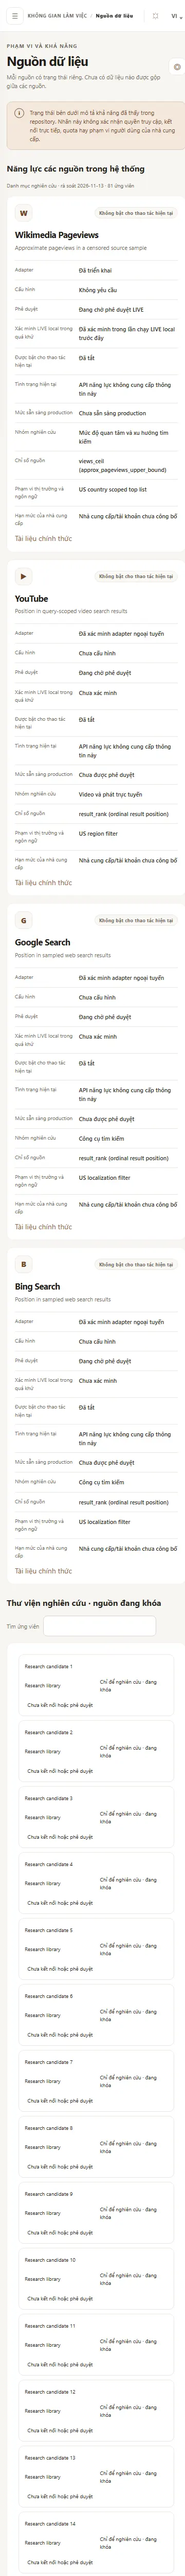
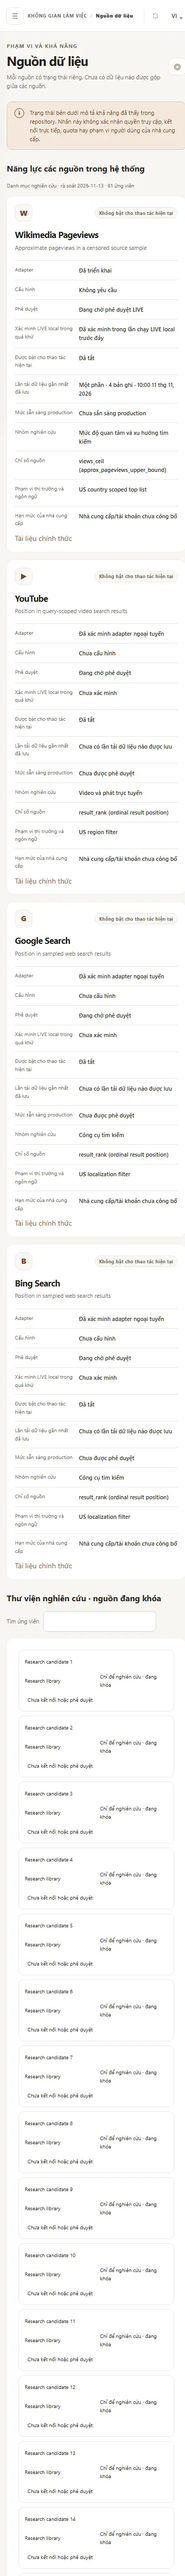
feat(sources): show latest saved fetch evidence

diff --git a/Frontend/public/modules/capabilities.js b/Frontend/public/modules/capabilities.js
@@ -6,7 +6,7 @@ const STATUS_FIELDS = [
   ['sources.approval', 'approval_status'],
   ['sources.local-verification', 'local_live_verification_status'],
   ['sources.current-operation', 'enabled_for_current_operation'],
-  ['sources.current-health', null],
+  ['sources.latest-fetch', null],
   ['sources.production-readiness', 'production_readiness'],
 ];
 
@@ -39,6 +39,21 @@ function localizedStatus(value, translate) {
   return translate('source.status.' + value.toLowerCase());
 }
 
+function savedFetchSummary(activity, translate) {
+  if (!activity) return translate('source.fetch-no-saved-data');
+  const status = ['SUCCESS', 'PARTIAL', 'FAILED'].includes(activity.status)
+    ? translate(`source.fetch.${activity.status.toLowerCase()}`)
+    : translate('source.status-unknown');
+  const count = Number.isInteger(activity.record_count) && activity.record_count >= 0
+    ? `${new Intl.NumberFormat(document.documentElement.lang || 'vi').format(activity.record_count)} ${translate('source.fetch-records')}`
+    : translate('source.fetch-count-unavailable');
+  const fetched = activity.fetched_at ? new Date(activity.fetched_at) : null;
+  const date = fetched && !Number.isNaN(fetched.getTime())
+    ? new Intl.DateTimeFormat(document.documentElement.lang || 'vi', {dateStyle:'medium',timeStyle:'short'}).format(fetched)
+    : translate('source.fetch-time-unavailable');
+  return `${status} · ${count} · ${date}`;
+}
+
 export function renderSourceCapabilities(capabilities, translate) {
   const descriptors = new Map((Array.isArray(capabilities?.sources) ? capabilities.sources : []).map(source => [source.source_id, source]));
   const grid = document.querySelector('#source-registry-list');
@@ -55,7 +70,7 @@ export function renderSourceCapabilities(capabilities, translate) {
       const list=document.createElement('dl'); list.className='detail-list';
       for (const [labelKey,field] of STATUS_FIELDS) {
         const label=document.createElement('dt'); label.textContent=translate(labelKey);
-        const value=document.createElement('dd'); value.textContent=field===null ? translate('source.health-unreported') : localizedStatus(descriptor[field],translate);
+        const value=document.createElement('dd'); value.textContent=field===null ? savedFetchSummary(descriptor.last_saved_fetch,translate) : localizedStatus(descriptor[field],translate);
         const row=document.createElement('div'); row.append(label,value); list.append(row);
       }
       const categoryLabel=translate(`sources.category.${descriptor.category}`);

diff --git a/Frontend/public/modules/i18n/vi.js b/Frontend/public/modules/i18n/vi.js
@@ -160,9 +160,15 @@ export const vi = {
   'sources.candidate-not-integrated': 'Chưa kết nối hoặc phê duyệt',
   'sources.no-candidates': 'Không có nguồn nào khớp tìm kiếm.',
   'sources.library-error': 'Không tải được danh mục nghiên cứu.',
-  'sources.current-health': 'Tình trạng hiện tại',
+  'sources.latest-fetch': 'Lần tải dữ liệu gần nhất đã lưu',
   'sources.production-readiness': 'Mức sẵn sàng production',
-  'source.health-unreported': 'API năng lực không cung cấp thông tin này',
+  'source.fetch-no-saved-data': 'Chưa có lần tải dữ liệu nào được lưu',
+  'source.fetch-count-unavailable': 'chưa có số bản ghi',
+  'source.fetch-time-unavailable': 'chưa có thời gian',
+  'source.fetch-records': 'bản ghi',
+  'source.fetch.success': 'Thành công',
+  'source.fetch.partial': 'Một phần',
+  'source.fetch.failed': 'Thất bại',
   'source.status-unknown': 'Chưa rõ trạng thái',
   'source.enabled': 'Được bật cho thao tác hiện tại',
   'source.enabled-local-verified': 'Được bật · có ghi nhận xác minh local',

diff --git a/Frontend/public/modules/i18n/en.js b/Frontend/public/modules/i18n/en.js
@@ -160,9 +160,15 @@ export const en = {
   'sources.candidate-not-integrated': 'Not connected or approved',
   'sources.no-candidates': 'No candidates match this search.',
   'sources.library-error': 'Research inventory unavailable.',
-  'sources.current-health': 'Current health',
+  'sources.latest-fetch': 'Latest saved data fetch',
   'sources.production-readiness': 'Production readiness',
-  'source.health-unreported': 'Not reported by the capability API',
+  'source.fetch-no-saved-data': 'No saved data fetch yet',
+  'source.fetch-count-unavailable': 'record count unavailable',
+  'source.fetch-time-unavailable': 'time unavailable',
+  'source.fetch-records': 'records',
+  'source.fetch.success': 'Succeeded',
+  'source.fetch.partial': 'Partial',
+  'source.fetch.failed': 'Failed',
   'source.status-unknown': 'Status unknown',
   'source.enabled': 'Enabled for current operation',
   'source.enabled-local-verified': 'Enabled · local verification recorded',

diff --git a/Backend/tests/browser_d2_visual_offline.py b/Backend/tests/browser_d2_visual_offline.py
@@ -19,7 +19,7 @@ window.fetch=(path,options={})=>{
   const value=String(path).split('?')[0];
   if(value==='/api/health')return Promise.resolve(new Response(JSON.stringify({status:'ok'}),{status:200}));
   if(value==='/api/v1/capabilities')return Promise.resolve(new Response(JSON.stringify({contract_version:'1.0',environment_mode:'test',read_only:true,authentication_required:false,public_fetch_enabled:false,fetch_enabled:false,fetch_block_reason:'FEATURE_DISABLED',data_mode:'SYNTHETIC',sources:[
-    {source_id:'wikimedia_pageviews_top_per_country',display_name:'Wikimedia Pageviews',icon:'W',category:'trends_search_interest',adapter_status:'IMPLEMENTED',approval_status:'PENDING_LIVE_APPROVAL',configuration_status:'NOT_REQUIRED',local_live_verification_status:'LOCAL_LIVE_VERIFIED',production_readiness:'NOT_PRODUCTION_READY',enabled_for_current_operation:false,metric:{name:'views_ceil',unit:'approx_pageviews_upper_bound',meaning:'Approximate pageviews in a censored source sample'},market_scope:'US country scoped top list',documentation_url:'https://doc.wikimedia.org/generated-data-platform/aqs/'},
+    {source_id:'wikimedia_pageviews_top_per_country',display_name:'Wikimedia Pageviews',icon:'W',category:'trends_search_interest',adapter_status:'IMPLEMENTED',approval_status:'PENDING_LIVE_APPROVAL',configuration_status:'NOT_REQUIRED',local_live_verification_status:'LOCAL_LIVE_VERIFIED',production_readiness:'NOT_PRODUCTION_READY',enabled_for_current_operation:false,last_saved_fetch:{status:'PARTIAL',data_mode:'SYNTHETIC',record_count:4,fetched_at:'2026-11-11T03:00:00Z',observation_start:'2026-11-10',observation_end:'2026-11-10'},metric:{name:'views_ceil',unit:'approx_pageviews_upper_bound',meaning:'Approximate pageviews in a censored source sample'},market_scope:'US country scoped top list',documentation_url:'https://doc.wikimedia.org/generated-data-platform/aqs/'},
     {source_id:'youtube_video_search',display_name:'YouTube',icon:'▶',category:'video_streaming',adapter_status:'IMPLEMENTED_OFFLINE_VERIFIED',approval_status:'PENDING_APPROVAL',configuration_status:'NOT_CONFIGURED',local_live_verification_status:'NOT_VERIFIED',production_readiness:'NOT_APPROVED',enabled_for_current_operation:false,metric:{name:'result_rank',unit:'ordinal result position',meaning:'Position in query-scoped video search results'},market_scope:'US region filter',documentation_url:'https://developers.google.com/youtube/v3/docs/search/list'},
     {source_id:'google_web_serp',display_name:'Google Search',icon:'G',category:'search_engines',adapter_status:'IMPLEMENTED_OFFLINE_VERIFIED',approval_status:'PENDING_APPROVAL',configuration_status:'NOT_CONFIGURED',local_live_verification_status:'NOT_VERIFIED',production_readiness:'NOT_APPROVED',enabled_for_current_operation:false,metric:{name:'result_rank',unit:'ordinal result position',meaning:'Position in sampled web search results'},market_scope:'US localization filter',documentation_url:'https://serpapi.com/search-api'},
     {source_id:'bing_web_serp',display_name:'Bing Search',icon:'B',category:'search_engines',adapter_status:'IMPLEMENTED_OFFLINE_VERIFIED',approval_status:'PENDING_APPROVAL',configuration_status:'NOT_CONFIGURED',local_live_verification_status:'NOT_VERIFIED',production_readiness:'NOT_APPROVED',enabled_for_current_operation:false,metric:{name:'result_rank',unit:'ordinal result position',meaning:'Position in sampled web search results'},market_scope:'US localization filter',documentation_url:'https://serpapi.com/search-api'}

diff --git a/Backend/app/api/capabilities.py b/Backend/app/api/capabilities.py
@@ -1,6 +1,7 @@
 """Public, non-secret view of runtime and source capabilities."""
 
 import json
+import sqlite3
 from pathlib import Path
 
 from fastapi import APIRouter, HTTPException, Request, Response
@@ -11,6 +12,48 @@ from app.sources.query_plan import get_query_plan
 
 router = APIRouter()
 _RESEARCH_CATALOG = Path(__file__).resolve().parents[1] / "sources" / "research_catalog.json"
+
+
+def _saved_source_activity(request):
+    """Return the latest persisted Fetch evidence per source, never live health."""
+    service = getattr(request.app.state, "collection_service", None)
+    if service is None:
+        return {}
+    try:
+        with service.store.connect() as db:
+            rows = db.execute(
+                "SELECT status,data_mode,source_manifest,fetched_at,observation_start,observation_end "
+                "FROM dataset_snapshots ORDER BY created_at DESC LIMIT 100"
+            ).fetchall()
+    except (OSError, sqlite3.Error):
+        return {}
+
+    latest = {}
+    for row in rows:
+        try:
+            manifest = json.loads(row["source_manifest"])
+        except (TypeError, ValueError, KeyError):
+            continue
+        if not isinstance(manifest, list):
+            continue
+        for source in manifest:
+            if not isinstance(source, dict):
+                continue
+            source_id = source.get("source_id")
+            if not isinstance(source_id, str) or source_id in latest:
+                continue
+            status = source.get("status")
+            status = status if status in {"SUCCESS", "PARTIAL", "FAILED"} else "UNKNOWN"
+            record_count = source.get("record_count")
+            latest[source_id] = {
+                "status": status,
+                "data_mode": row["data_mode"],
+                "record_count": record_count if type(record_count) is int and record_count >= 0 else None,
+                "fetched_at": row["fetched_at"],
+                "observation_start": row["observation_start"],
+                "observation_end": row["observation_end"],
+            }
+    return latest
 
 
 @router.get("/sources/library")
@@ -54,6 +97,7 @@ async def capabilities(request: Request, response: Response):
                     enabled = False
                     block_reason = "ADMISSION_STATE_UNAVAILABLE"
     plan = get_query_plan(settings.query_plan_id, settings.query_plan_version)
+    saved_activity = _saved_source_activity(request)
     response.headers["Cache-Control"] = "no-store"
     return {
         "contract_version": "1.0",
@@ -142,6 +186,7 @@ async def capabilities(request: Request, response: Response):
                 "enabled_for_current_operation": (
                     enabled and item.source_id in request.app.state.public_fetch_source_ids
                 ),
+                "last_saved_fetch": saved_activity.get(item.source_id),
                 "disabled_reason": None
                 if enabled and item.source_id in request.app.state.public_fetch_source_ids
                 else (block_reason or "SOURCE_NOT_ALLOWED"),

diff --git a/Backend/tests/test_source_catalog.py b/Backend/tests/test_source_catalog.py
@@ -1,9 +1,16 @@
 """Source catalog exposes capabilities without inventing future adapters."""
 
+import json
+import sqlite3
+import tempfile
 import unittest
+from contextlib import contextmanager
+from pathlib import Path
+from types import SimpleNamespace
 from unittest.mock import patch
 
 from app import composition
+from app.api.capabilities import _saved_source_activity
 from app.settings import Settings
 from app.sources.catalog import (
     BING_SOURCE_ID,
@@ -16,6 +23,51 @@ from app.sources.catalog import (
 
 
 class SourceCatalogTests(unittest.TestCase):
+    def test_capabilities_project_latest_saved_source_fetch_without_diagnostics(self):
+        with tempfile.TemporaryDirectory() as directory:
+            path = Path(directory) / "snapshots.sqlite"
+            db = sqlite3.connect(path)
+            db.row_factory = sqlite3.Row
+            db.execute("""CREATE TABLE dataset_snapshots(
+                status TEXT,data_mode TEXT,source_manifest TEXT,fetched_at TEXT,
+                observation_start TEXT,observation_end TEXT,created_at TEXT)""")
+            db.execute("""INSERT INTO dataset_snapshots VALUES(?,?,?,?,?,?,?)""", (
+                "PARTIAL", "SYNTHETIC", json.dumps([{
+                    "source_id": WIKIMEDIA_SOURCE_ID, "status": "PARTIAL",
+                    "record_count": 7, "error_code": "PRIVATE_PROVIDER_DETAIL",
+                }]), "2026-11-14T01:00:00Z", "2026-11-12", "2026-11-13", "2",
+            ))
+            db.execute("""INSERT INTO dataset_snapshots VALUES(?,?,?,?,?,?,?)""", (
+                "COMPLETED", "SYNTHETIC", json.dumps([{
+                    "source_id": WIKIMEDIA_SOURCE_ID, "status": "SUCCESS",
+                    "record_count": 3,
+                }]), "2026-11-13T01:00:00Z", "2026-11-11", "2026-11-11", "1",
+            ))
+            db.commit()
+            db.close()
+
+            class Store:
+                @contextmanager
+                def connect(self):
+                    db = sqlite3.connect(path)
+                    db.row_factory = sqlite3.Row
+                    try:
+                        yield db
+                    finally:
+                        db.close()
+
+            request = SimpleNamespace(app=SimpleNamespace(state=SimpleNamespace(
+                collection_service=SimpleNamespace(store=Store())
+            )))
+            activity = _saved_source_activity(request)[WIKIMEDIA_SOURCE_ID]
+
+        self.assertEqual(activity, {
+            "status": "PARTIAL", "data_mode": "SYNTHETIC", "record_count": 7,
+            "fetched_at": "2026-11-14T01:00:00Z", "observation_start": "2026-11-12",
+            "observation_end": "2026-11-13",
+        })
+        self.assertNotIn("PRIVATE_PROVIDER_DETAIL", json.dumps(activity))
+
     def test_four_capabilities_have_central_endpoint_and_readiness_metadata(self):
         expected = {
             WIKIMEDIA_SOURCE_ID: ("wikimedia_aqs", "IMPLEMENTED", True),

diff --git a/Backend/tests/browser_workspace_offline.py b/Backend/tests/browser_workspace_offline.py
@@ -31,7 +31,7 @@ window.fetch=(path,opts={})=>{
     data_mode:'LIVE',local_live_demo:true,environment_mode:'local',read_only:false,
     fetch_enabled:false,public_fetch_enabled:false,authentication_required:false,
     sources:[
-      {source_id:'wikimedia_pageviews_top_per_country',adapter_status:'IMPLEMENTED',approval_status:'PENDING_LIVE_APPROVAL',configuration_status:'NOT_REQUIRED',local_live_verification_status:'LOCAL_LIVE_VERIFIED',production_readiness:'NOT_PRODUCTION_READY',enabled_for_current_operation:false},
+      {source_id:'wikimedia_pageviews_top_per_country',adapter_status:'IMPLEMENTED',approval_status:'PENDING_LIVE_APPROVAL',configuration_status:'NOT_REQUIRED',local_live_verification_status:'LOCAL_LIVE_VERIFIED',production_readiness:'NOT_PRODUCTION_READY',enabled_for_current_operation:false,last_saved_fetch:{status:'PARTIAL',record_count:7,fetched_at:'2026-11-14T01:00:00Z',data_mode:'SYNTHETIC'}},
       {source_id:'youtube_video_search',adapter_status:'IMPLEMENTED_OFFLINE_VERIFIED',approval_status:'PENDING_APPROVAL',configuration_status:'NOT_CONFIGURED',local_live_verification_status:'NOT_VERIFIED',production_readiness:'NOT_APPROVED',enabled_for_current_operation:false},
       {source_id:'google_web_serp',adapter_status:'IMPLEMENTED_OFFLINE_VERIFIED',approval_status:'PENDING_APPROVAL',configuration_status:'NOT_CONFIGURED',local_live_verification_status:'NOT_VERIFIED',production_readiness:'NOT_APPROVED',enabled_for_current_operation:false},
       {source_id:'bing_web_serp',adapter_status:'IMPLEMENTED_OFFLINE_VERIFIED',approval_status:'PENDING_APPROVAL',configuration_status:'NOT_CONFIGURED',local_live_verification_status:'NOT_VERIFIED',production_readiness:'NOT_APPROVED',enabled_for_current_operation:false}
@@ -128,6 +128,15 @@ CHECK = r"""<script>
       check(!document.querySelector('[data-view=\"'+link.dataset.nav+'\"]')?.hidden,'view '+link.dataset.nav);
       check(link.getAttribute('aria-current')==='page','aria current '+link.dataset.nav);
       check(document.documentElement.scrollWidth<=innerWidth+1,'horizontal overflow '+link.dataset.nav);
+    }
+    if(innerWidth<=900){
+      const menuButton=document.querySelector('#menu-toggle');
+      menuButton.click();
+      check(document.querySelector('#app-shell').classList.contains('menu-open'),'mobile navigation opens');
+      check(document.querySelector('#workspace-nav-panel').contains(document.activeElement),'mobile navigation receives focus');
+      document.dispatchEvent(new KeyboardEvent('keydown',{key:'Escape',bubbles:true}));
+      check(!document.querySelector('#app-shell').classList.contains('menu-open'),'Escape closes mobile navigation');
+      check(document.activeElement===menuButton,'mobile navigation restores focus to its trigger');
     }
     const {applyLocale}=await import(I18N_MODULE_URI);
     await go('collections');await wait(80);

diff --git a/Documents/Reports/OVERNIGHT_G2_G7_FINAL_REPORT.md b/Documents/Reports/OVERNIGHT_G2_G7_FINAL_REPORT.md
@@ -17,7 +17,7 @@
 | Phase | State | Implemented and evidence | Remaining acceptance gap |
 |---|---|---|---|
 | G2 — contextual classification and Collection quality | **PASS for the local replay scope** | Versioned `contextual-classifier-v1.2` policy is consumed by the local classifier; taxonomy is `topics-v1.4`; bounded official Wikipedia/Wikidata context lookups were used for uncached/stale saved keyword context; the 154-row reconciliation preserved all observations and manual decisions. | The store has only 154 eligible records, so this is acceptance for this actual local dataset, not a claim about future records. Six records remain without a Collection by design. |
-| G3 — Source Center | **PASS for registry and research inventory UI** | Runtime source descriptions are backend-driven. The UI separates integration/configuration/approval/local-live/production status and states quota as unknown when it is not measured. The 81-entry catalog is explicitly research-only and locked, separate from runtime adapters. | Only the existing Wikimedia Pageviews source has persisted observations. Other candidates are not integrated, approved, or quota-verified. Inventory research was last audited 2026-11-11 and needs revalidation before integration. |
+| G3 — Source Center | **PASS for local registry and saved-operation evidence** | Runtime source descriptions are backend-driven. Source cards now show the latest saved Fetch status, per-source record count and recorded timestamp from SQLite; this is saved history, not provider-online health. The UI separates integration/configuration/approval/local-live/production status and states quota as unknown when it is not measured. The 81-entry catalog is explicitly research-only and locked, separate from runtime adapters. | Only the existing Wikimedia Pageviews source has persisted observations. Other candidates are not integrated, approved, or quota-verified. Inventory research was last audited 2026-11-11 and needs revalidation before integration. |
 | G4 - Dashboard and analytics | **PARTIAL** | Overview shows a persisted comparable-cohort Top 5 chart. Analysis charts saved keywords by source, algorithm-result rows by outcome, Fetch run status by source, per-source/per-day observed versus unavailable counts, and a source/date coverage heatmap; accessible source-level tables remain alongside them. Algorithm effectiveness is explicitly `NOT_YET_EVALUATED`, with a localized explanation rather than a fabricated score. | Counts are record/run counts, not demand, audience or accuracy. One-source coverage cannot establish cross-source overlap; filters remain disabled until compatible windows and measures exist. |
 | G5 — Run History | **PARTIAL** | Search/status/mode filtering, pagination and details read persistent SQLite `fetch_jobs`, stored snapshots and the AnalysisStorage run ledger. A bounded registry contract returns up to 100 newest manual runs; a truncated-history flag is returned at the cap. The UI shows recorded duration or “not recorded”, localizes run type/source/status/mode and known partial/failure explanations, and adds column labels to mobile rows. Offline fake and Firestore-stub contracts plus API tests pass. | Firestore emulator integration remains unverified in this environment; older-than-100 manual runs are not included in the merged search window. |
 | G6 — algorithms and Data Quality | **PASS for the evaluated local snapshot; cross-product review partial** | API reports the actual 12-method registry. Persisted ledger has 154 observations and 1,848 keyword/algorithm results (154 × 12); incompatible methods are skipped with reasons. No effectiveness winner is selected without comparable labeled history. UI localizes names, statuses and reasons and exposes result/evidence detail. | The current single censored Wikimedia snapshot supports descriptive within-snapshot ranking only. It cannot validate growth, persistence, change points or algorithm effectiveness. Full keyboard/accessibility review of every detail state remains outstanding. |
@@ -69,7 +69,7 @@ The taxonomy retained stable IDs and added evidenced leaves for settlements, mon
 
 ## G3–G7 implementation detail
 
-- **Source Center:** `GET /api/v1/sources/library` returns the dated research catalog. Runtime capability descriptors are composed from backend source capabilities. UI status axes do not imply production enablement or quota knowledge. The catalog's 81 candidates remain non-integrated.
+- **Source Center:** `GET /api/v1/sources/library` returns the dated research catalog. Runtime capability descriptors are composed from backend source capabilities. `/api/v1/capabilities` projects latest saved per-source status, record count and timestamps from SQLite snapshots without exposing raw provider diagnostics or claiming live connectivity. UI status axes do not imply production enablement or quota knowledge. The catalog's 81 candidates remain non-integrated.
 - **Dashboard:** `GET /api/v1/analytics/overview` uses the actual SQLite ledger. Current counts are 154 unique/eligible, 148 classified, 4 ambiguous, 1 unknown, 1 ineligible, 6 unclassified, one source, 154 observations and 1,848 algorithm results. Top 5 is computed from one latest source/project/date/metric/unit cohort and labels its values approximate/censored/partial as applicable. Current cohort is `wikimedia_pageviews_top_per_country`, `en.wikipedia`, 2026-11-11, 148 records. The ranking is observed volume rank, not growth. The Overview bar chart now uses those same persisted Top 5 values; its label says “Country filter” so US scope is not presented as author or reader nationality. The evidence table remains below the chart.
 - **Run History:** `GET /api/v1/runs/history` and `GET /api/v1/runs/history/{fetch_id}` combine local persistent task/dataset rows with up to 100 newest `AnalysisStorage` manual runs. Eleven SQLite task rows were visible during read-only verification. The API indicates when manual history is unavailable or reaches its scan cap; missing duration/counts stay unavailable.
 - **Algorithm intelligence:** all 12 registered algorithms were present, with result rows already persisted for all 154 × 12 pairs. The two compatible descriptive rank methods have 150 completed and 4 skipped results each; other methods are skipped when the one-snapshot metric lacks required history/compatibility. Dashboard labels now resolve through the backend algorithm registry and VI/EN names; statuses are translated. Effectiveness is `NOT_YET_EVALUATED`; no winner is fabricated.
@@ -82,7 +82,7 @@ The taxonomy retained stable IDs and added evidenced leaves for settlements, mon
 
 - Scheduler, run idempotency, settings, workbench runtime-status and dashboard contract tests: **49 passed, 34 subtests passed**. Separate demo regression coverage also passed. Ruff passed on changed backend modules; `node --check` passed for the frontend bundle.
 - Full backend suite from `Backend/`: **773 passed, 767 subtests passed**. The Firestore emulator integration path was also explicitly attempted with a temporary, checksum-verified Microsoft OpenJDK 21 and Firebase CLI 15.36.0 outside the repo and the official emulator on loopback. Its first guarded test failed before client creation because `create_guarded_emulator_client` requires an isolated Linux network namespace and `/proc/net/*`; native Windows has no `/proc`, and no WSL distribution or `bwrap` is available. The emulator was stopped. The safety guard was not bypassed, and no Firestore production endpoint was contacted. The two demo discovery failures from the preceding run are fixed and now pass.
-- Native Chrome offline workspace: passed at 320, 390, 768, 1024, 1440 and 1920 px for locale/theme persistence, all views, read-only API access and XSS handling. The Collection merge picker passed keyboard selection, review-step handoff and Escape dismissal in Vietnamese/English and light/dark in the isolated fixture; no merge was committed and no Fetch occurred.
+- Native Chrome offline workspace: passed at 320, 390, 768, 1024, 1440 and 1920 px for locale/theme persistence, all views, read-only API access and XSS handling. The Collection merge picker passed keyboard selection, review-step handoff and Escape dismissal in Vietnamese/English and light/dark in the isolated fixture. The mobile navigation drawer also passed open/focus/Escape/focus-return checks. No merge was committed and no Fetch occurred.
 - Fresh overview screenshots: 24 combinations at six widths, Vietnamese/English and light/dark are in `Documents/Reports/windows-evidence/overnight-g2-g7/`. Screenshots use an isolated synthetic browser fixture. Five earlier G2 evidence images are also retained in that directory.
 - Offline Chrome visual/workspace checks passed at **320, 390, 768, 1024, 1440 and 1920 px**. Overview evidence covers VI/EN and light/dark; fresh VI/light screenshots now cover Analysis, Collections, Sources, Run History, Algorithms, Quality, Product Research and Settings at 390 and 1440 px. Run History and Analysis mobile tables show localized column names and do not cause document-level horizontal overflow. Workspace checks cover locale/theme persistence, read-only API behavior and XSS fixtures. Offline browser checks exercise the Analysis charts, Settings scheduler empty state, and localized system/storage status. These use synthetic/offline fixtures, not provider Fetch.
 - `node --check` passed for `Frontend/public/app.js` and `Frontend/public/modules/capabilities.js`; Python compilation passed for changed backend modules; `git diff --check` passed (Git emitted only line-ending normalization warnings).
